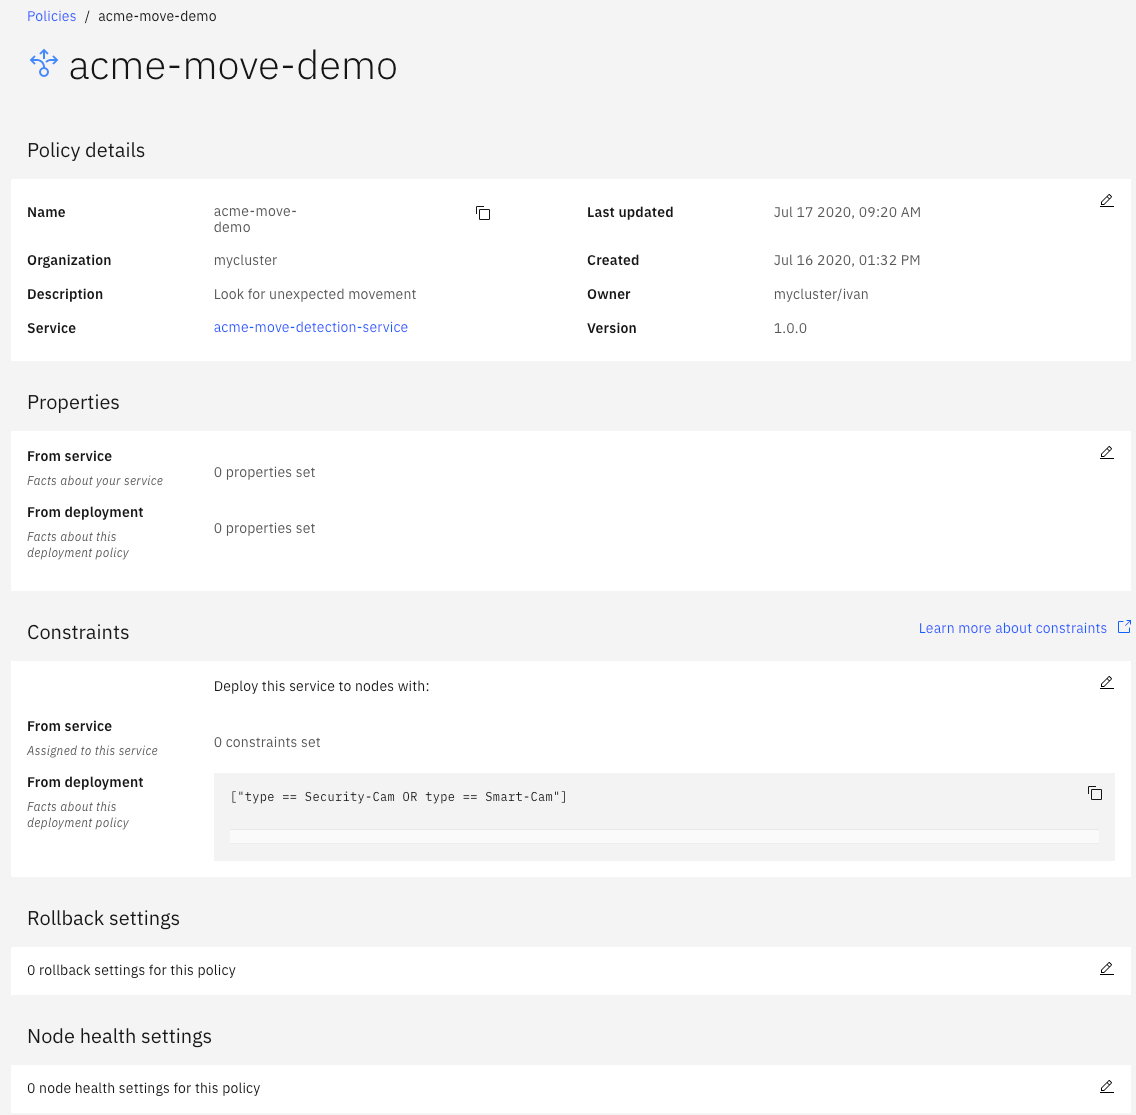
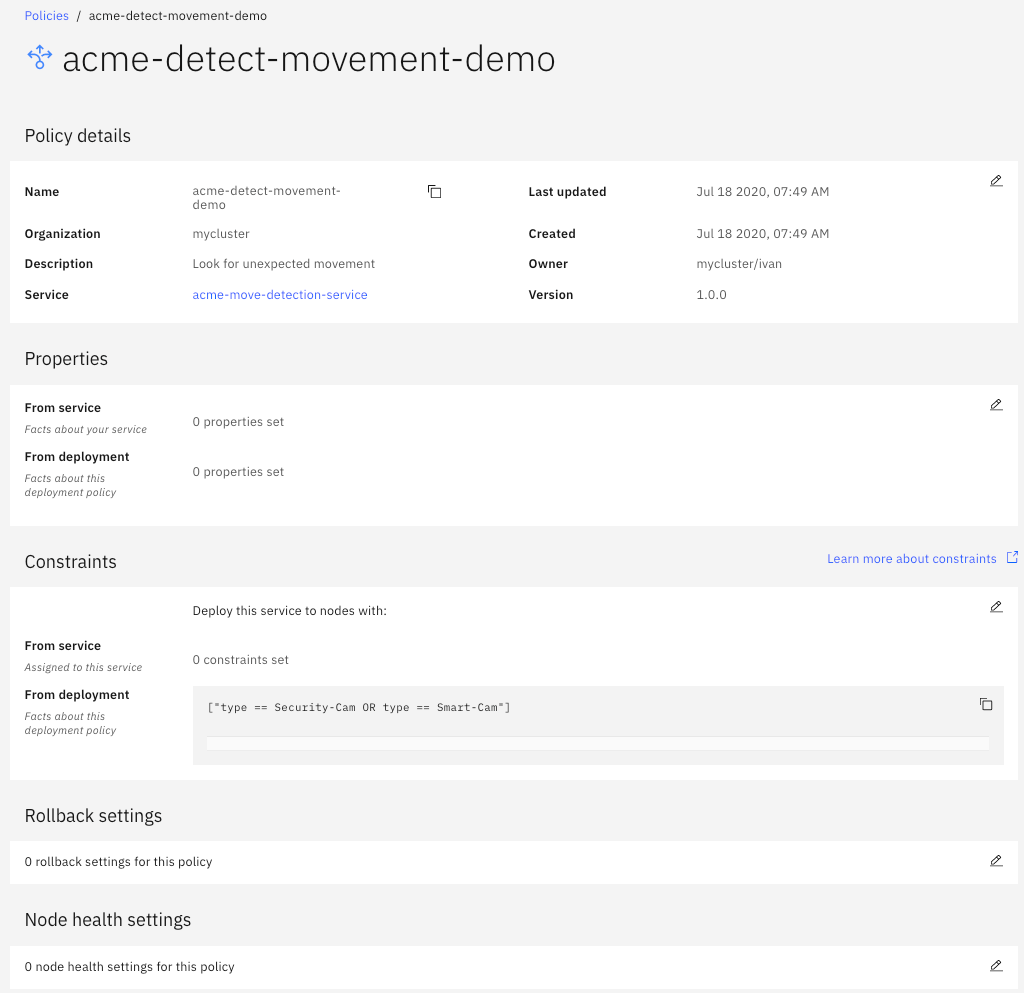
mode dp

diff --git a/simple/README.md b/simple/README.md
@@ -121,7 +121,7 @@ Now let's learn about edge **services**:
 
 * Go to the `Services` tab `(via Node or Home links)`
 
-	[Management Hub](http://icp.com/edge)
+	[IEAM Welcome Page](https://icp-console.ieam41-w3-8e873dd4c685acf6fd2f13f4cdfb05bb-0000.us-south.containers.appdomain.cloud/edge/start)
 	
 An IEAM edge **service** can contain one or more **Docker** container images. A group of  one or more **services** together can create an **application**.
 
@@ -164,7 +164,7 @@ Notice that there are currently no **deployment** polices for this service. Let'
 
 
 * Click: `Create deployment policy`
-* Click in the `Enter a name` field and give it a name of: **acme-move-demo**
+* Click in the `Enter a name` field and give it a name of: **acme-detect-movement-demo**
 * Click in the `Create a description for your policy` field and write **Look for unexpected movement**
 * Click: `Next`
 
